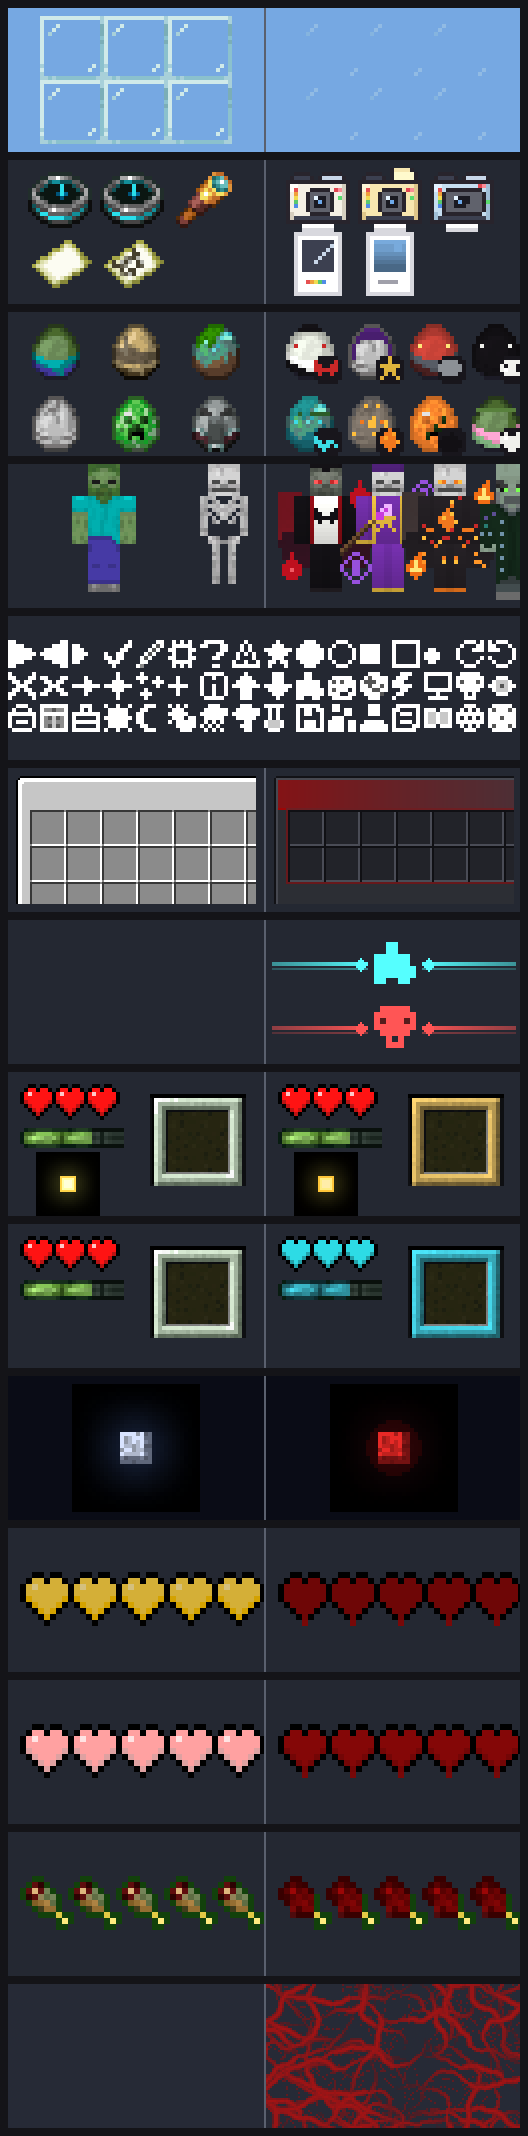
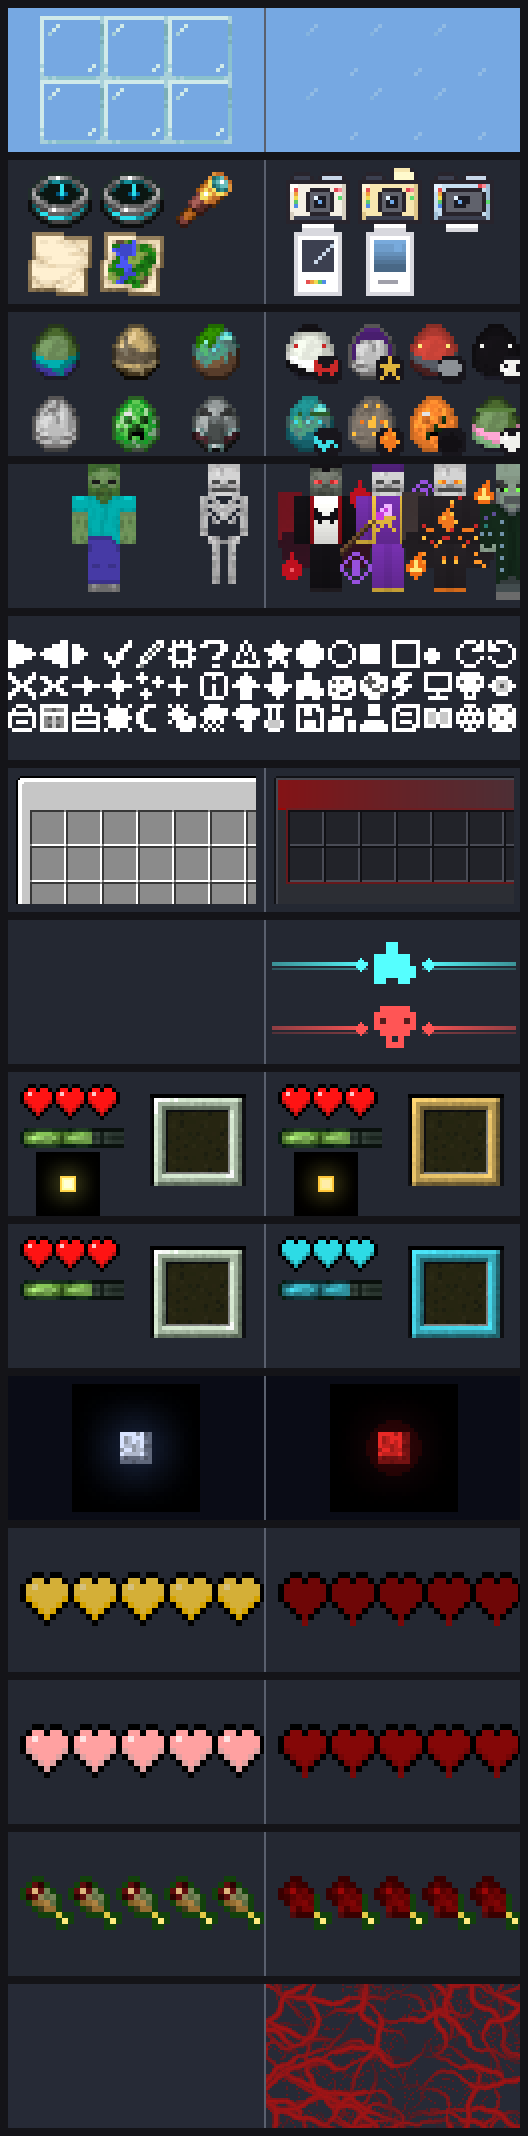
Camera 1.6.1: drop the map_color tint 26.3 removed, and let a missing sprite not kill the build
A photo is a filled_map, and the pack tinted the polaroid with the picture's
own average colour through the minecraft:map_color tint source. 26.3 removed
it - ItemTintSources registers constant, custom_model_data, dye, firework,
grass, potion, team, and no longer map_color - and an item definition naming a
tint source the client does not know fails as a whole. So every filled_map,
ours and vanilla's, rendered as the missing-model cube.

The polaroid is drawn at full colour now; vanilla's own filled_map.json
dropped its tint in the same release, so the fallback follows by itself as
long as the pack is built against a 26.3 client.

themelib.texture also returns None for a file the client jar does not have,
instead of throwing: 26.3 deleted item/filled_map_markings.png (explorer maps
each got their own icon) and that one missing sprite stopped every pack from
building.

Changed region(s): [[0.0303, 0.0927, 0.3333, 0.1545]]

diff --git a/camera/build.py b/camera/build.py
@@ -29,7 +29,7 @@ back as the fallback:
 
   assets/minecraft/items/filled_map.json
       custom_model_data flag 0 set        -> a polaroid: white card, the picture area tinted by
-                                             the item's map_color (the plugin sets it to the
+                                             the item's average colour (until 26.3 removed the
                                              photo's average colour, so every photo's thumbnail
                                              carries its own light)
       otherwise                           -> the vanilla filled map, unchanged
@@ -40,7 +40,7 @@ back as the fallback:
       otherwise                           -> the vanilla empty map, unchanged
 
 The plugin writes exactly those components: floats [film count], flags [flashing] on the
-camera, flags [true] plus map_color on a photo, flags [true] on film (an empty map underneath). Real recovery compasses and real maps
+camera, flags [true] on a photo, flags [true] on film (an empty map underneath). Real recovery compasses and real maps
 carry no custom_model_data and hit the fallback, which is read from the installed client
 jar at build time so it is always the running version's own definition.
 
@@ -105,7 +105,7 @@ sys.path.insert(0, str(HERE.parent))
 import themelib as T  # noqa: E402
 
 NAME = "Camera"
-VERSION = "1.6.0"         # bumped with ../bump.py, never by hand
+VERSION = "1.6.1"         # bumped with ../bump.py, never by hand
 
 PALETTE = {
     ".": None,
@@ -133,7 +133,7 @@ PALETTE = {
     "p": (255, 255, 255, 255),     # photo paper
     "P": (216, 216, 222, 255),     # photo paper shade / card edge
     "c": (160, 160, 170, 255),     # the scribble on a photo's border
-    # the picture area of a polaroid: greys the map_color tint multiplies
+    # the picture area of a polaroid (greys, which the map_color tint used to multiply - 26.3 removed it)
     "9": (255, 255, 255, 255),
     "8": (236, 236, 236, 255),
     "7": (216, 216, 216, 255),
@@ -247,7 +247,7 @@ FILM = [
 ]
 
 # The polaroid, layer 1: the picture, greys from light at the top to darker at the bottom,
-# tinted by map_color on the client. A brighter square top right reads as the sky's light.
+# tinted by map_color on the client until 26.3 removed it. A brighter square top right reads as the sky's light.
 POLAROID_PICTURE = [
     "................",
     "................",
@@ -387,16 +387,22 @@ def zoom_definition(z):
 
 
 def polaroid_definition(z):
+    """The polaroid, and the client's own filled_map for a real one.
+
+    **No `minecraft:map_color` tint any more.** 26.3 removed the `map_color` item component and
+    the tint source that read it, and an item definition naming a tint source the client does not
+    know **fails to parse as a whole** - so on a 26.3 client every filled_map, ours and vanilla's,
+    fell back to the missing-model cube. (Vanilla's own `items/filled_map.json` dropped the tint
+    in the same release; `vanilla_definition` picks that up by itself, as long as the pack is
+    built against a 26.3 client - `MC_VERSION=26.3` until the main server has run once.)
+
+    The picture layer is therefore drawn at full colour instead of being multiplied by the photo's
+    average. A polaroid in the inventory is the same for every photo now; the picture itself, in
+    the hand and in a frame, is unaffected - that is the map, not the item model."""
     return {"model": {
         "type": "minecraft:condition",
         "property": "minecraft:custom_model_data", "index": 0,
-        "on_true": {
-            "type": "minecraft:model", "model": "camera:item/polaroid",
-            "tints": [
-                {"type": "minecraft:constant", "value": -1},
-                {"type": "minecraft:map_color", "default": 0x8FB4DC},
-            ],
-        },
+        "on_true": {"type": "minecraft:model", "model": "camera:item/polaroid"},
         "on_false": vanilla_definition(z, "filled_map"),
     }}
 

diff --git a/themelib.py b/themelib.py
@@ -138,10 +138,18 @@ def jar():
 
 
 def texture(z, path):
-    """Decode assets/minecraft/textures/<path> from the jar, or None without a jar."""
+    """Decode assets/minecraft/textures/<path> from the jar; None without a jar, and **None when
+    the jar simply has no such file** - a sprite that exists in one version and not the next is a
+    fact of upgrading, not a reason for the whole build to die. 26.3 dropped
+    `item/filled_map_markings.png` (explorer maps each got their own icon instead) and that one
+    missing file stopped every pack from building. Callers already test the result."""
     if z is None:
         return None
-    return png_decode(z.read(f"assets/minecraft/textures/{path}"))
+    try:
+        return png_decode(z.read(f"assets/minecraft/textures/{path}"))
+    except KeyError:
+        print(f"  note: {path} is not in the {server_version()} client - drawing without it")
+        return None
 
 
 def pack_format(z):

diff --git a/README.md b/README.md
@@ -8,7 +8,7 @@ pack.
 | Pack | What | Download |
 |---|---|---|
 | [GlassFrame](glassframe/) | Glass with no borders at all, blocks and panes, so a window or floor reads as one clean sheet. Pairs with a plugin that draws the outline back only where the glass actually stops. | [`GlassFrame-2.8.3-borderless.zip`](glassframe/GlassFrame-2.8.3-borderless.zip) |
-| [Camera](camera/) | The Camera plugin's camera as a cute instant camera - empty, loaded, flashing - and its photos as polaroids tinted with each picture's own colour. Repaints two vanilla item definitions only where the plugin sets `custom_model_data`; real compasses and maps are untouched. | [`Camera-1.6.0.zip`](camera/Camera-1.6.0.zip) |
+| [Camera](camera/) | The Camera plugin's camera as a cute instant camera - empty, loaded, flashing - and its photos as polaroids tinted with each picture's own colour. Repaints two vanilla item definitions only where the plugin sets `custom_model_data`; real compasses and maps are untouched. | [`Camera-1.6.1.zip`](camera/Camera-1.6.1.zip) |
 | [MobDesigner](mobdesigner/) | The Mob Designer's designs: costumes drawn as an armour layer over every designed zombie, husk, drowned and skeleton, wings, weapon and hat models, aura sprites, a voice per design, the Hexer's repaint, and a picture for each design's spawn egg. Overrides vanilla item definitions only where the plugin sets `custom_model_data`. | [`MobDesigner-1.2.0.zip`](mobdesigner/MobDesigner-1.2.0.zip) |
 | [ServerUI](serverui/) | Pixel icons at the emoji code points the server's dialog menus use, drawn into the default font. Without the pack the menus show the same symbols in Unifont. | [`ServerUI-1.13.2.zip`](serverui/ServerUI-1.13.2.zip) |
 | [ThemeCalm](themecalm/) | Theme layer for the main server: warm gold hotbar frame, warmer sun, a soft chime on every menu click. | [`ThemeCalm-1.0.0.zip`](themecalm/ThemeCalm-1.0.0.zip) |

diff --git a/CHANGELOG.md b/CHANGELOG.md
@@ -2,6 +2,10 @@
 
 One entry per published version, newest first.
 
+## Camera 1.6.1
+
+26.3 removed the map_color tint source, so the filled_map definition named something the client does not know and every photo and every real map fell back to the missing-model cube
+
 ## MobDesigner 1.2.0
 
 Every voice synthesised: 57 mono OGG lines, one per design per ambient/hurt/death, and no vanilla sound events left in the pool

diff --git a/camera/README.md b/camera/README.md
@@ -2,7 +2,7 @@
 
 The look of the Camera plugin's camera and its photos, for Minecraft Java 26.2+, **no mods**.
 
-Download: [`Camera-1.6.0.zip`](Camera-1.6.0.zip)
+Download: [`Camera-1.6.1.zip`](Camera-1.6.1.zip)
 
 The plugin's camera is a recovery compass and its photos are filled maps - vanilla items,
 so a player without this pack still sees something sensible. The pack repaints the three
